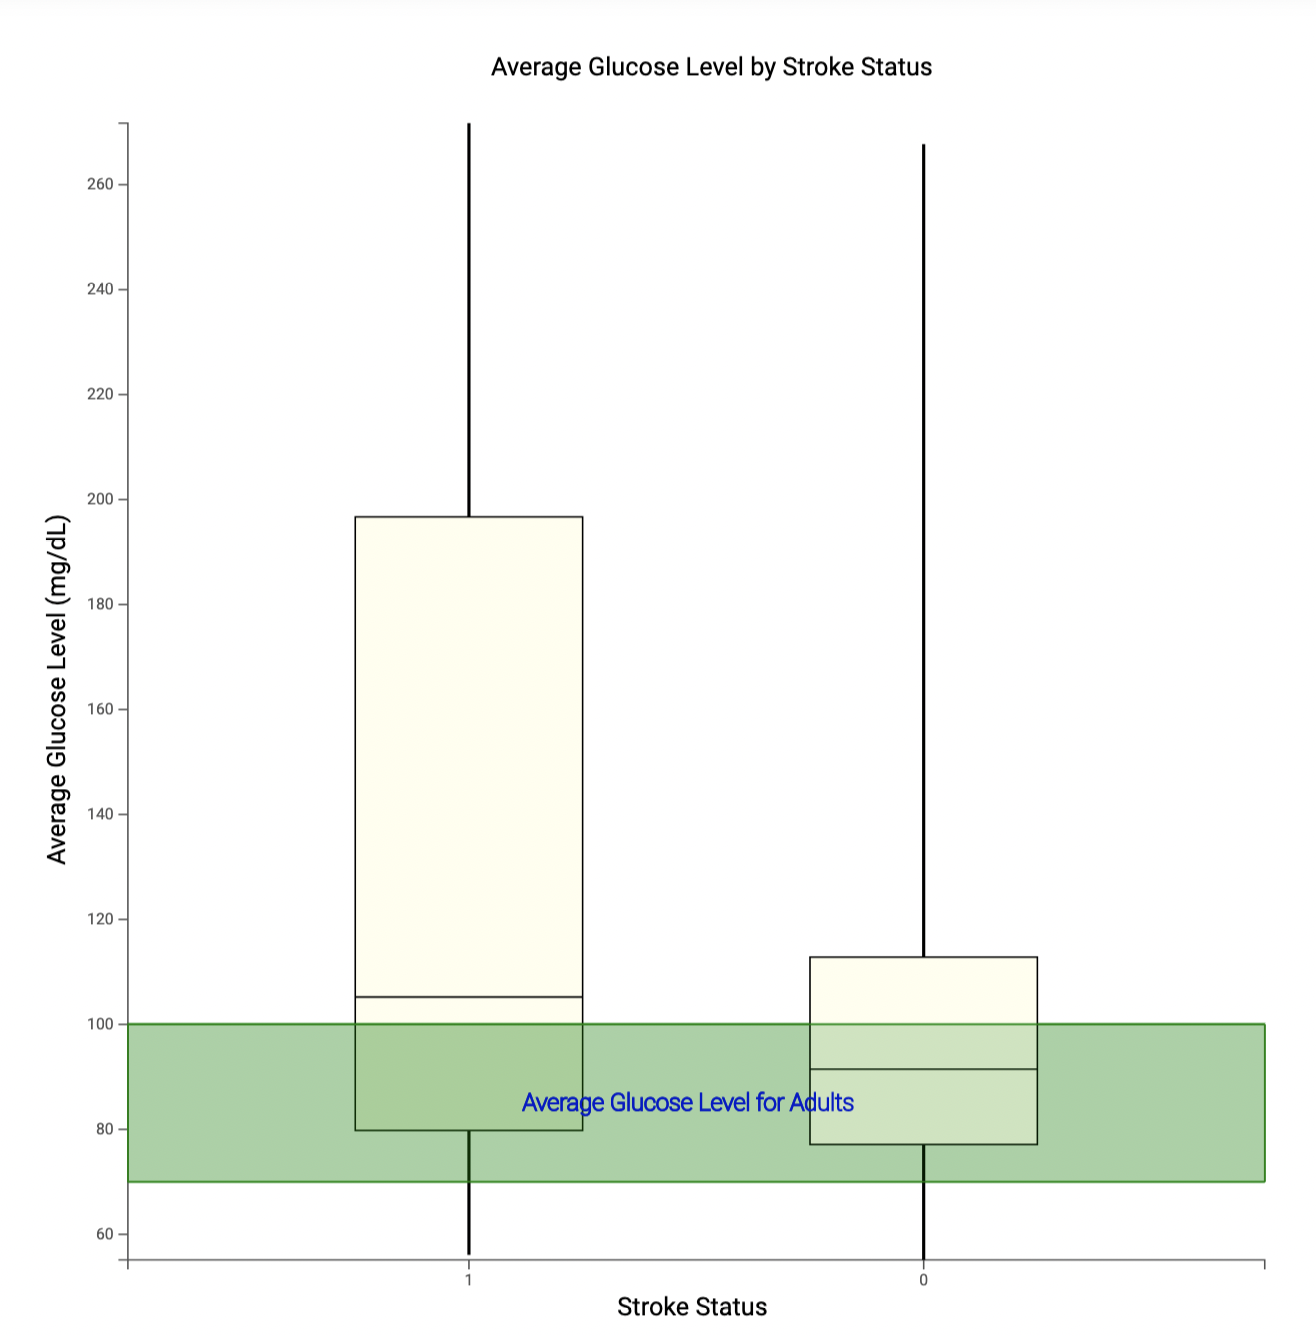
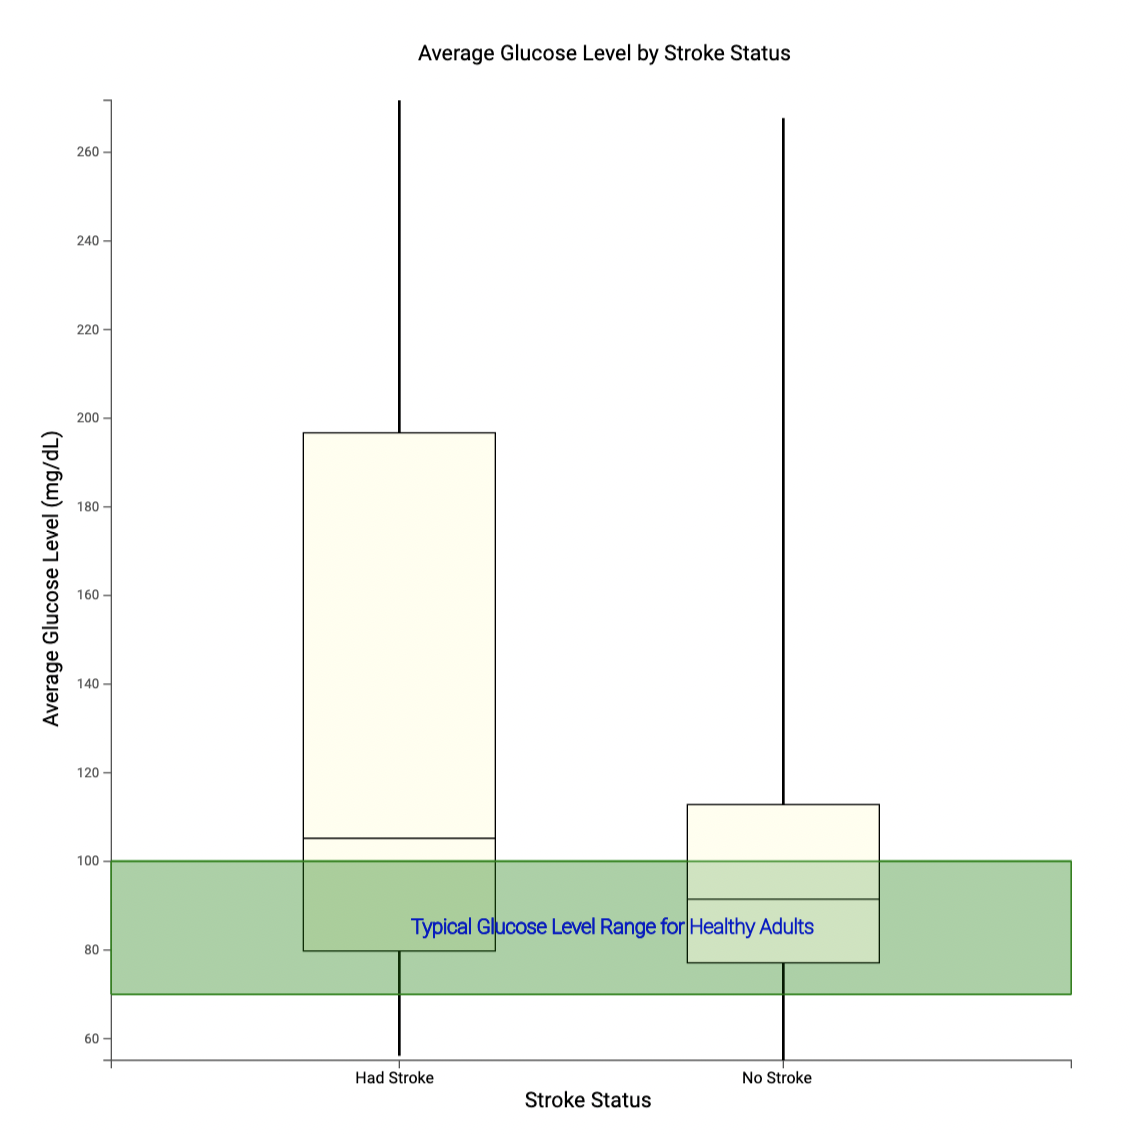
update boxplot

diff --git a/viz3.js b/viz3.js
@@ -124,9 +124,9 @@ stroke.then(function (data) {
       .style("width", 20);
 
     svg.append('text')
-      .attr('x', width / 2 - 100)
+      .attr('x', width / 2 - 125)
       .attr('y', height - 145)
-      .text('Average Glucose Level for Adults')
+      .text('Typical Glucose Level Range for Healthy Adults')
       .attr("stroke", "blue")
       .attr("font-size", 15)
       .attr("font-weight", 200)
@@ -139,10 +139,32 @@ stroke.then(function (data) {
       .attr("stroke", "green")
       .style("fill", "green")
       .style("opacity", 0.2)
+
+    svg.append("rect")
+      .attr("x", 50)
+      .attr("y", 758)
+      .attr("height", 10)
+      .attr("width", 770 - 50)
+      .attr("stroke", "white")
+      .style("fill", "white")
   });
 
   svg.append('text')
     .attr('x', width / 2 - 120)
     .attr('y', 0)
     .text('Average Glucose Level by Stroke Status')
+
+  svg.append('text')
+    .attr('x', width / 2 + 123)
+    .attr('y', yscale(50))
+    .text('No Stroke')
+    .attr("font-size", 12)
+    .attr("font-weight", 400)
+
+  svg.append('text')
+    .attr('x', 233)
+    .attr('y', yscale(50))
+    .text('Had Stroke')
+    .attr("font-size", 12)
+    .attr("font-weight", 400)
 });
